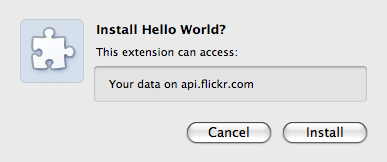
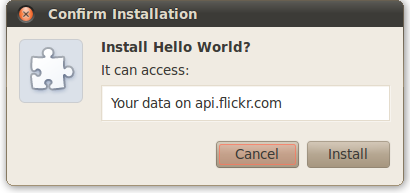
Add "management" warning, improve comments, update screenshots, plus other small changes.
BUG=none
TEST=none

Review URL: http://codereview.chromium.org/6079011

git-svn-id: svn://svn.chromium.org/chrome/trunk/src@70521 0039d316-1c4b-4281-b951-d872f2087c98

diff --git a/chrome/common/extensions/docs/permission_warnings.html b/chrome/common/extensions/docs/permission_warnings.html
@@ -326,9 +326,21 @@
         <div id="static"><div id="pageData-name" class="pageData">Permission Warnings</div>
 <div id="pageData-showTOC" class="pageData">true</div>
 
+<!--
+NOTE: When this doc is updated, the online help should also be updated:
+http://www.google.com/support/chrome/bin/answer.py?hl=en&answer=186213
+
+We should periodically look at 
+http://src.chromium.org/viewvc/chrome/trunk/src/chrome/app/generated_resources.grd?view=markup
+to make sure that we're covering all messages. Search for
+IDS_EXTENSION_PROMPT_WARNING
+(e.g. IDS_EXTENSION_PROMPT_WARNING_BROWSING_HISTORY).
+-->
+
 <p>
 To use most chrome.* APIs and extension capabilities,
-your extension must declare its intent in the manifest,
+your extension must declare its intent in the
+<a href="manifest.html">manifest</a>,
 often in the "permissions" field.
 Some of these declarations
 result in a warning when
@@ -352,7 +364,7 @@ Here's a typical dialog
 that a user might see when installing an extension:
 </p>
 
-<img src="images/perms-hw1.png" width="387" height="162" alt="Permission warning: 'This extension can access: Your data on api.flickr.com'">
+<img src="images/perms-hw1.png" width="410" height="193" alt="Permission warning: 'It can access: Your data on api.flickr.com'">
 
 <p>
 The warning about access to data on api.flickr.com
@@ -403,7 +415,7 @@ Clicking the Re-enable button
 brings up the following warning:
 </p>
 
-<img src="images/perms-hw2.png" width="387" height="190" alt="Permission warning: 'This extension can access: Your data on api.flickr.com and flickr.com; Your browsing history'">
+<img src="images/perms-hw2.png" width="412" height="220" alt="Permission warning: 'It can access: Your data on api.flickr.com and flickr.com; Your browsing history'">
 
 
 <h2 id="warnings"> Warnings and their triggers </h2>
@@ -414,8 +426,7 @@ results in the seemingly unrelated warning
 that the extension can access your browsing history.
 The reason for the warning is that
 although the <code>chrome.tabs</code> API
-might be used only to open new tabs
-(<a href="tabs.html#method-create"><code>chrome.tabs.create()</code></a>),
+might be used only to open new tabs,
 it can also be used to see the URL that's associated
 with every newly opened tab
 (using their <a href="tabs.html#type-Tab">Tab</a> objects).
@@ -425,13 +436,14 @@ with every newly opened tab
 <b>Note:</b>
 As of Google Chrome 7,
 you no longer need to specify the "tabs" permission
-just to call <code>chrome.tabs.create()</code>.
+just to call <code>chrome.tabs.create()</code>
+or <code>chrome.tabs.update()</code>.
 </p>
 
 <p>
 The following table lists the warning messages
 that users can see,
-along with the <a href="manifest.html">manifest</a> entries
+along with the manifest entries
 that trigger them.
 </p>
 
@@ -443,7 +455,7 @@ that trigger them.
 
 <tr>
   <td style="font-weight:bold">
-    <!-- IDS_EXTENSION_PROMPT2_WARNING_FULL_ACCESS -->
+    <!-- IDS_EXTENSION_PROMPT_WARNING_FULL_ACCESS -->
     All data on your computer and the websites you visit
   </td>
   <td>
@@ -457,7 +469,7 @@ that trigger them.
 
 <tr>
   <td style="font-weight:bold">
-    <!-- IDS_EXTENSION_PROMPT2_WARNING_BOOKMARKS -->
+    <!-- IDS_EXTENSION_PROMPT_WARNING_BOOKMARKS -->
     Your bookmarks
   </td>
   <td>
@@ -471,7 +483,7 @@ that trigger them.
 
 <tr>
   <td style="font-weight:bold">
-    <!-- IDS_EXTENSION_PROMPT2_WARNING_BROWSING_HISTORY -->
+    <!-- IDS_EXTENSION_PROMPT_WARNING_BROWSING_HISTORY -->
     Your browsing history
   </td>
   <td>
@@ -498,7 +510,7 @@ that trigger them.
 
 <tr>
   <td style="font-weight:bold">
-    <!-- IDS_EXTENSION_PROMPT2_WARNING_ALL_HOSTS -->
+    <!-- IDS_EXTENSION_PROMPT_WARNING_ALL_HOSTS -->
     Your data on all websites
   </td>
   <td>
@@ -531,8 +543,8 @@ that trigger them.
 </tr>
 <tr>
   <td style="font-weight:bold">
-    <!-- IDS_EXTENSION_PROMPT2_WARNING_?_HOST -->
-    <!-- IDS_EXTENSION_PROMPT2_WARNING_4_OR_MORE_HOSTS -->
+    <!-- IDS_EXTENSION_PROMPT_WARNING_?_HOST -->
+    <!-- IDS_EXTENSION_PROMPT_WARNING_4_OR_MORE_HOSTS -->
     Your data on <em>{list of websites}</em>
   </td>
   <td>
@@ -565,7 +577,29 @@ that trigger them.
 
 <tr>
   <td style="font-weight:bold">
-    <!-- IDS_EXTENSION_PROMPT2_WARNING_GEOLOCATION -->
+    <!-- IDS_EXTENSION_PROMPT_WARNING_MANAGEMENT -->
+    Your list of installed apps, extensions, and themes
+    <br>
+    <span style="font-weight:normal; font-style:italic">or</span>
+    <br>
+    Manage themes, extensions, and apps
+
+    <!-- PENDING: remove "Manage...apps" alternative message
+    once the fix is out on stable channel -->
+    <!-- See http://crbug.com/67859 -->
+  </td>
+  <td>
+    "management" permission
+  </td>
+  <td>
+    The "management" permission is required by the
+    <a href="management.html"><code>chrome.management</code></a> module.
+  </td>
+</tr>
+
+<tr>
+  <td style="font-weight:bold">
+    <!-- IDS_EXTENSION_PROMPT_WARNING_GEOLOCATION -->
     Your physical location
   </td>
   <td>

diff --git a/chrome/common/extensions/docs/static/permission_warnings.html b/chrome/common/extensions/docs/static/permission_warnings.html
@@ -1,9 +1,21 @@
 <div id="pageData-name" class="pageData">Permission Warnings</div>
 <div id="pageData-showTOC" class="pageData">true</div>
 
+<!--
+NOTE: When this doc is updated, the online help should also be updated:
+http://www.google.com/support/chrome/bin/answer.py?hl=en&answer=186213
+
+We should periodically look at 
+http://src.chromium.org/viewvc/chrome/trunk/src/chrome/app/generated_resources.grd?view=markup
+to make sure that we're covering all messages. Search for
+IDS_EXTENSION_PROMPT_WARNING
+(e.g. IDS_EXTENSION_PROMPT_WARNING_BROWSING_HISTORY).
+-->
+
 <p>
 To use most chrome.* APIs and extension capabilities,
-your extension must declare its intent in the manifest,
+your extension must declare its intent in the
+<a href="manifest.html">manifest</a>,
 often in the "permissions" field.
 Some of these declarations
 result in a warning when
@@ -28,8 +40,8 @@ that a user might see when installing an extension:
 </p>
 
 <img src="images/perms-hw1.png"
-  width="387" height="162"
-  alt="Permission warning: 'This extension can access: Your data on api.flickr.com'"
+  width="410" height="193"
+  alt="Permission warning: 'It can access: Your data on api.flickr.com'"
   />
 
 <p>
@@ -87,8 +99,8 @@ brings up the following warning:
 </p>
 
 <img src="images/perms-hw2.png"
-  width="387" height="190"
-  alt="Permission warning: 'This extension can access: Your data on api.flickr.com and flickr.com; Your browsing history'"
+  width="412" height="220"
+  alt="Permission warning: 'It can access: Your data on api.flickr.com and flickr.com; Your browsing history'"
   />
 
 
@@ -100,8 +112,7 @@ results in the seemingly unrelated warning
 that the extension can access your browsing history.
 The reason for the warning is that
 although the <code>chrome.tabs</code> API
-might be used only to open new tabs
-(<a href="tabs.html#method-create"><code>chrome.tabs.create()</code></a>),
+might be used only to open new tabs,
 it can also be used to see the URL that's associated
 with every newly opened tab
 (using their <a href="tabs.html#type-Tab">Tab</a> objects).
@@ -111,13 +122,14 @@ with every newly opened tab
 <b>Note:</b>
 As of Google Chrome 7,
 you no longer need to specify the "tabs" permission
-just to call <code>chrome.tabs.create()</code>.
+just to call <code>chrome.tabs.create()</code>
+or <code>chrome.tabs.update()</code>.
 </p>
 
 <p>
 The following table lists the warning messages
 that users can see,
-along with the <a href="manifest.html">manifest</a> entries
+along with the manifest entries
 that trigger them.
 </p>
 
@@ -129,7 +141,7 @@ that trigger them.
 
 <tr>
   <td style="font-weight:bold">
-    <!-- IDS_EXTENSION_PROMPT2_WARNING_FULL_ACCESS -->
+    <!-- IDS_EXTENSION_PROMPT_WARNING_FULL_ACCESS -->
     All data on your computer and the websites you visit
   </td>
   <td>
@@ -143,7 +155,7 @@ that trigger them.
 
 <tr>
   <td style="font-weight:bold">
-    <!-- IDS_EXTENSION_PROMPT2_WARNING_BOOKMARKS -->
+    <!-- IDS_EXTENSION_PROMPT_WARNING_BOOKMARKS -->
     Your bookmarks
   </td>
   <td>
@@ -157,7 +169,7 @@ that trigger them.
 
 <tr>
   <td style="font-weight:bold">
-    <!-- IDS_EXTENSION_PROMPT2_WARNING_BROWSING_HISTORY -->
+    <!-- IDS_EXTENSION_PROMPT_WARNING_BROWSING_HISTORY -->
     Your browsing history
   </td>
   <td>
@@ -184,7 +196,7 @@ that trigger them.
 
 <tr>
   <td style="font-weight:bold">
-    <!-- IDS_EXTENSION_PROMPT2_WARNING_ALL_HOSTS -->
+    <!-- IDS_EXTENSION_PROMPT_WARNING_ALL_HOSTS -->
     Your data on all websites
   </td>
   <td>
@@ -217,8 +229,8 @@ that trigger them.
 </tr>
 <tr>
   <td style="font-weight:bold">
-    <!-- IDS_EXTENSION_PROMPT2_WARNING_?_HOST -->
-    <!-- IDS_EXTENSION_PROMPT2_WARNING_4_OR_MORE_HOSTS -->
+    <!-- IDS_EXTENSION_PROMPT_WARNING_?_HOST -->
+    <!-- IDS_EXTENSION_PROMPT_WARNING_4_OR_MORE_HOSTS -->
     Your data on <em>{list of websites}</em>
   </td>
   <td>
@@ -251,7 +263,29 @@ that trigger them.
 
 <tr>
   <td style="font-weight:bold">
-    <!-- IDS_EXTENSION_PROMPT2_WARNING_GEOLOCATION -->
+    <!-- IDS_EXTENSION_PROMPT_WARNING_MANAGEMENT -->
+    Your list of installed apps, extensions, and themes
+    <br />
+    <span style="font-weight:normal; font-style:italic">or</span>
+    <br />
+    Manage themes, extensions, and apps
+
+    <!-- PENDING: remove "Manage...apps" alternative message
+    once the fix is out on stable channel -->
+    <!-- See http://crbug.com/67859 -->
+  </td>
+  <td>
+    "management" permission
+  </td>
+  <td>
+    The "management" permission is required by the
+    <a href="management.html"><code>chrome.management</code></a> module.
+  </td>
+</tr>
+
+<tr>
+  <td style="font-weight:bold">
+    <!-- IDS_EXTENSION_PROMPT_WARNING_GEOLOCATION -->
     Your physical location
   </td>
   <td>
